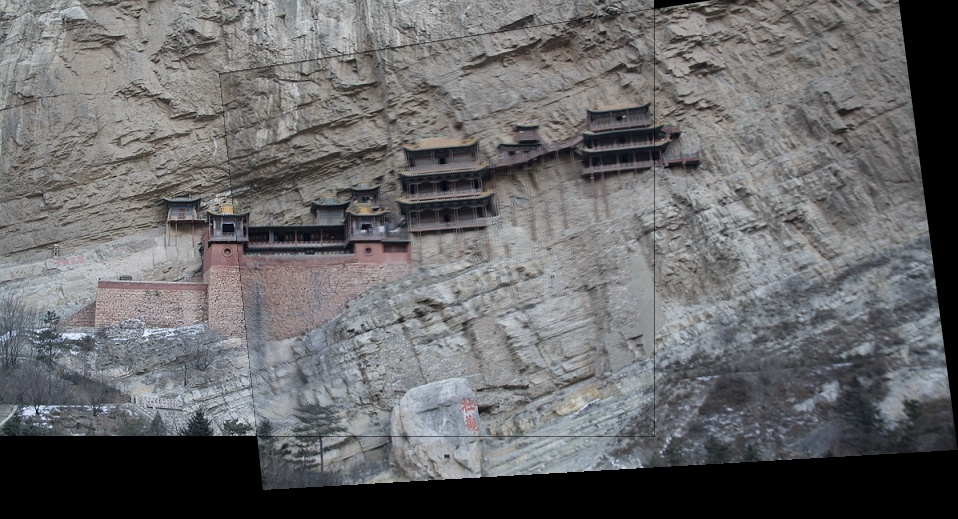
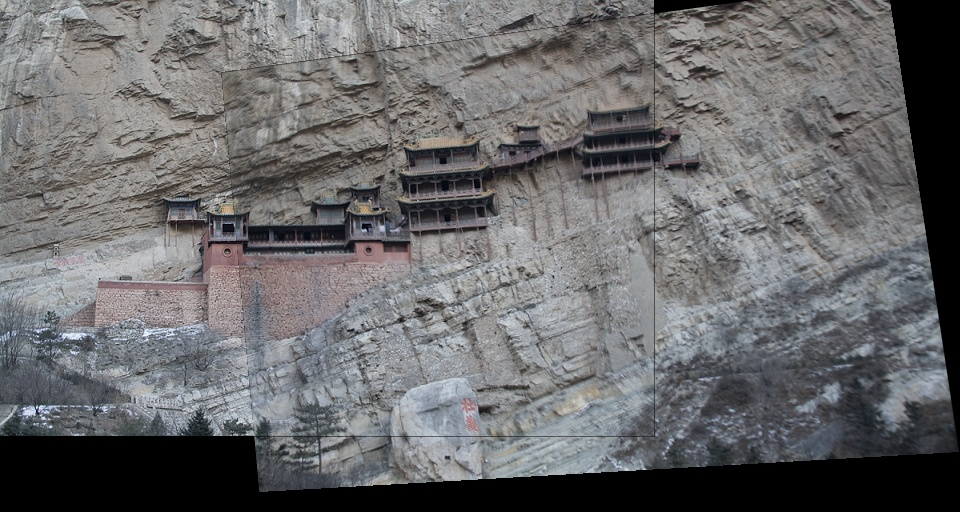
random seed 43

diff --git a/Ex2.py b/Ex2.py
@@ -62,6 +62,8 @@ def dlt(matrix1, matrix2):
     _, _, V_h = linalg.svd(A_matrix)
     # make last row of Vh 3x3 matrix
     H = V_h[-1, :].reshape((3, 3))
+    # Normalize to make H[2,2] = 1
+    # H /= H[2, 2]
     return H
 
 
@@ -76,7 +78,7 @@ def RANSAC(coordinates1, coordinates2, threshold, max_iterations=1000):
     """
     ret_homography = None
     ret_inliers = 0
-
+    random.seed(43)
     # iterations will be done max_iteration times until the "best homography" will be found
     # best homography - the one that gives maximal count of inliners
     for _ in tqdm(range(max_iterations)):
